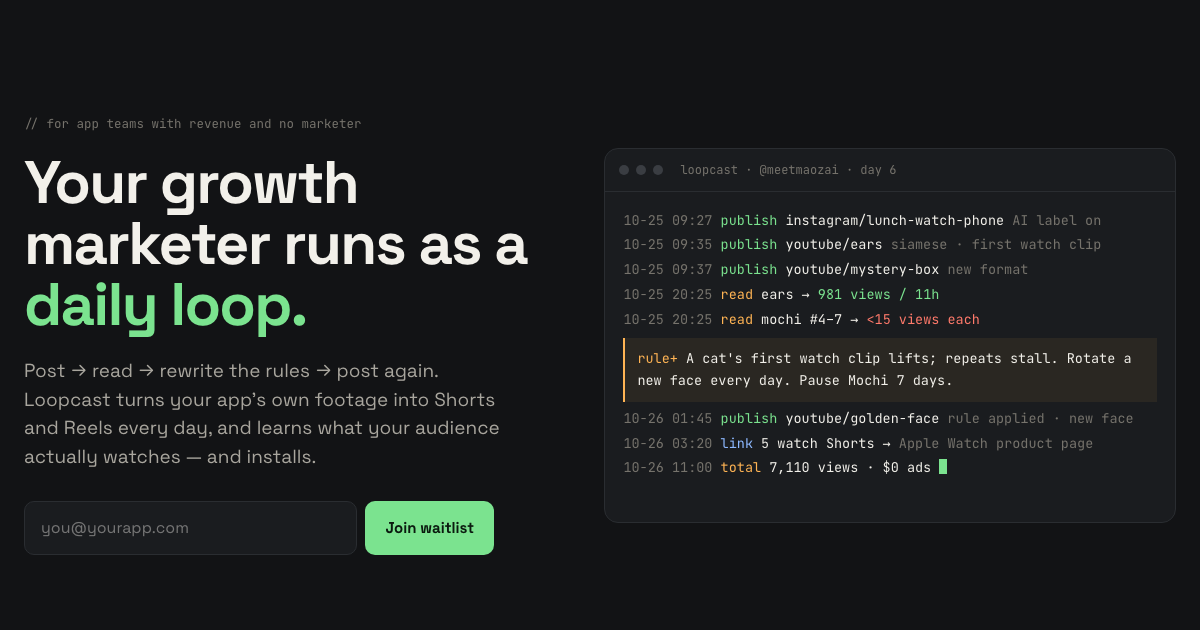
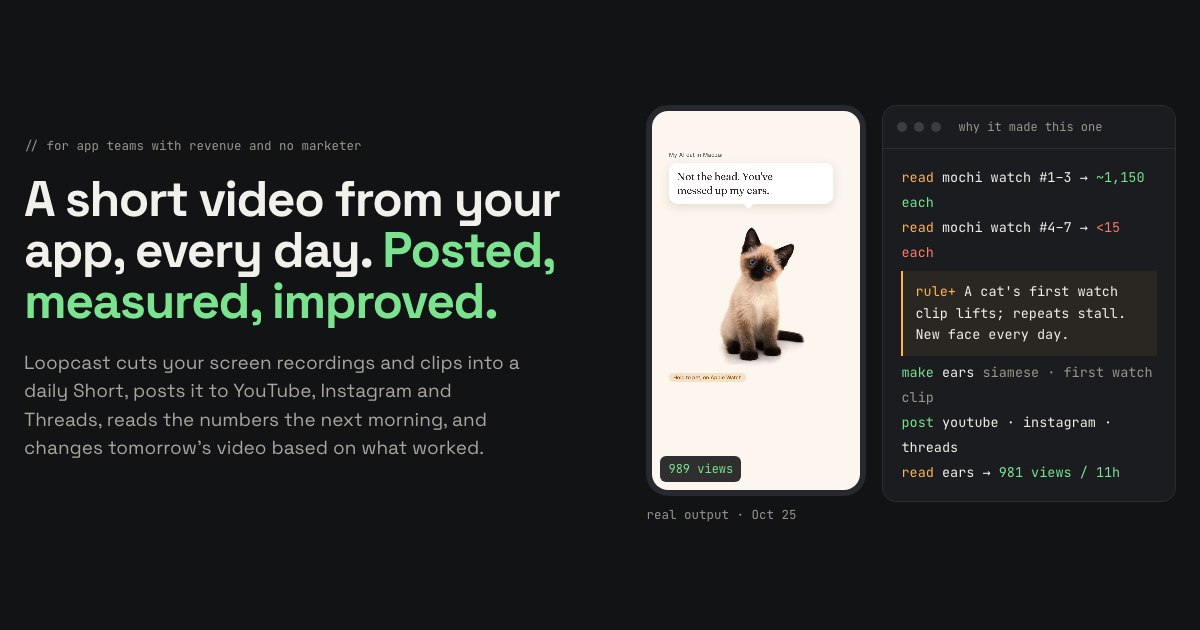
feat: product-first home, concrete plan quotas, planned features marked
Hero leads with the daily video and a real output; pricing cards state
apps, platforms, videos, posts and remakes, mark attribution as planned
and link to the pilot form; dated stats; brighter secondary text.

diff --git a/index.html b/index.html
@@ -4,19 +4,19 @@
 <meta charset="utf-8">
 <meta name="viewport" content="width=device-width, initial-scale=1">
 <title>Loopcast — AI marketer that runs your app's social accounts</title>
-<meta name="description" content="An AI agent for app teams with no marketer: it turns your app's footage into daily Shorts and Reels, posts via official APIs and learns what drives installs.">
+<meta name="description" content="A short video from your app every day: Loopcast cuts your footage into Shorts and Reels, posts them, reads the numbers and improves the next one.">
 <link rel="canonical" href="https://loopcast.dev/">
 <meta property="og:type" content="website">
 <meta property="og:site_name" content="Loopcast">
 <meta property="og:url" content="https://loopcast.dev/">
 <meta property="og:title" content="Loopcast — AI marketer that runs your app's social accounts">
-<meta property="og:description" content="Post, read the numbers, rewrite the rules, post again. Case study: Maozai, 7,110 views in 6 days with $0 on ads.">
+<meta property="og:description" content="A short video from your app every day, posted, measured and improved. Free two-week pilots for app teams.">
 <meta property="og:image" content="https://loopcast.dev/og.png">
 <meta property="og:image:width" content="1200">
 <meta property="og:image:height" content="630">
 <meta name="twitter:card" content="summary_large_image">
 <meta name="twitter:title" content="Loopcast — AI marketer that runs your app's social accounts">
-<meta name="twitter:description" content="An AI agent for app teams with no marketer: it turns your app's footage into daily Shorts and Reels, posts via official APIs and learns what drives installs.">
+<meta name="twitter:description" content="A short video from your app every day: Loopcast cuts your footage into Shorts and Reels, posts them, reads the numbers and improves the next one.">
 <meta name="twitter:image" content="https://loopcast.dev/og.png">
 <link rel="icon" href="/favicon.svg" type="image/svg+xml">
 <link rel="apple-touch-icon" href="/apple-touch-icon.png">
@@ -26,7 +26,7 @@
 <link rel="preconnect" href="https://fonts.gstatic.com" crossorigin>
 <link href="https://fonts.googleapis.com/css2?family=Space+Grotesk:wght@400;500;700&family=JetBrains+Mono:wght@400;600&display=swap" rel="stylesheet">
 <!-- ld:start (generated) -->
-<script type="application/ld+json">{"@context": "https://schema.org", "@graph": [{"@type": "Organization", "@id": "https://loopcast.dev/#org", "name": "Loopcast", "url": "https://loopcast.dev/", "logo": "https://loopcast.dev/apple-touch-icon.png"}, {"@type": "WebSite", "@id": "https://loopcast.dev/#website", "name": "Loopcast", "url": "https://loopcast.dev/", "publisher": {"@id": "https://loopcast.dev/#org"}}, {"@type": "Service", "@id": "https://loopcast.dev/#service", "name": "Loopcast", "serviceType": "Social media marketing for mobile apps", "description": "An AI agent that runs a small app team's social accounts as a daily loop: it makes short videos from the app's own footage, posts them through official platform APIs, reads the numbers the next morning, and rewrites its own per-account rules.", "provider": {"@id": "https://loopcast.dev/#org"}, "url": "https://loopcast.dev/", "audience": {"@type": "BusinessAudience", "audienceType": "App teams with revenue and no marketer"}}, {"@type": "FAQPage", "@id": "https://loopcast.dev/#faq", "mainEntity": [{"@type": "Question", "name": "What is Loopcast?", "acceptedAnswer": {"@type": "Answer", "text": "Loopcast is an AI agent that runs a small app team's social media accounts as a daily loop. Every day it makes short videos from the app's own footage, posts them to YouTube Shorts, Instagram Reels and Threads, reads the numbers the next morning, and rewrites its own rules for that account based on what worked. It is built first for app teams that already have revenue but no marketer. Loopcast is a working name; it is not related to the podcast product at loopcast.ai or the audio app at loopcast.app."}}, {"@type": "Question", "name": "How is Loopcast different from a scheduler like Buffer or Later?", "acceptedAnswer": {"@type": "Answer", "text": "A scheduler posts content you bring and stops there. Loopcast makes the content from your app's footage, posts it, follows each post to your App Store page and downloads, and changes what it does tomorrow based on the result. Each account gets its own rules in plain words, with the evidence and date behind every rule, which you can read, edit or veto."}}, {"@type": "Question", "name": "What results has Loopcast had so far?", "acceptedAnswer": {"@type": "Answer", "text": "One case so far: Maozai, a solo developer's iPhone and Apple Watch virtual pet app, on brand-new accounts from October 20 to 26, 2026. The agent published about 60 posts and reached 7,110 views across YouTube, Instagram, X and Threads with $0 spent on ads. Four Shorts made 79% of the YouTube views. Those views turned into 14 first-time App Store downloads in the 30 days to October 24, so turning views into installs is not proven yet; that is what the pilots are for."}}, {"@type": "Question", "name": "Which platforms does Loopcast post to?", "acceptedAnswer": {"@type": "Answer", "text": "YouTube Shorts, Instagram Reels and Threads first, through their official publishing APIs. TikTok and X come next; TikTok's posting API requires an app review and X's API is paid."}}, {"@type": "Question", "name": "Does Loopcast need my passwords?", "acceptedAnswer": {"@type": "Answer", "text": "No. Every platform is connected through its official API or its own delegation, such as a YouTube channel manager role or Meta partner access. Loopcast never asks for a password and never logs in to your browser."}}, {"@type": "Question", "name": "What does Loopcast do on its own, and what needs my approval?", "acceptedAnswer": {"@type": "Answer", "text": "It makes videos from footage you have shared, publishes routine posts, reads the numbers, writes rules and sends a weekly report on its own. Replies and comments in your voice, direct messages, any ad spend and the first post in a new format wait for your yes."}}, {"@type": "Question", "name": "Is the content AI-generated, and is it labelled?", "acceptedAnswer": {"@type": "Answer", "text": "The videos are cut from your real app footage and screen recordings; Loopcast writes the captions. Anything AI-generated is labelled with each platform's AI disclosure setting, and music is original or cleared for commercial use, never a platform's licensed library."}}, {"@type": "Question", "name": "How much does Loopcast cost?", "acceptedAnswer": {"@type": "Answer", "text": "The first pilots are free: two weeks, two platforms, a daily log and a report at the end. Planned pricing is $49 a month for Starter (one app, two platforms, approve each post), $299 a month for Main (three to four platforms on autopilot, daily videos, daily rule updates, attribution to downloads and revenue), and $799 a month and up for Growth (several apps, creator collaborations, App Store work). Prices may change before launch."}}, {"@type": "Question", "name": "Is Loopcast available now?", "acceptedAnswer": {"@type": "Answer", "text": "Not generally yet. Five free pilots are open for app teams with revenue and no marketer; join the waitlist on loopcast.dev and the developer behind Maozai replies within a few days."}}]}]}</script>
+<script type="application/ld+json">{"@context": "https://schema.org", "@graph": [{"@type": "Organization", "@id": "https://loopcast.dev/#org", "name": "Loopcast", "url": "https://loopcast.dev/", "logo": "https://loopcast.dev/apple-touch-icon.png"}, {"@type": "WebSite", "@id": "https://loopcast.dev/#website", "name": "Loopcast", "url": "https://loopcast.dev/", "publisher": {"@id": "https://loopcast.dev/#org"}}, {"@type": "Service", "@id": "https://loopcast.dev/#service", "name": "Loopcast", "serviceType": "Social media marketing for mobile apps", "description": "An AI agent that turns a small app team's own footage into a short video every day, posts it to YouTube Shorts, Instagram Reels and Threads, reads the numbers the next morning, and changes the next video based on what worked.", "provider": {"@id": "https://loopcast.dev/#org"}, "url": "https://loopcast.dev/", "audience": {"@type": "BusinessAudience", "audienceType": "App teams with revenue and no marketer"}}, {"@type": "FAQPage", "@id": "https://loopcast.dev/#faq", "mainEntity": [{"@type": "Question", "name": "What is Loopcast?", "acceptedAnswer": {"@type": "Answer", "text": "Loopcast is an AI agent that runs a small app team's social media accounts as a daily loop. Every day it makes short videos from the app's own footage, posts them to YouTube Shorts, Instagram Reels and Threads, reads the numbers the next morning, and rewrites its own rules for that account based on what worked. It is built first for app teams that already have revenue but no marketer. Loopcast is a working name; it is not related to the podcast product at loopcast.ai or the audio app at loopcast.app."}}, {"@type": "Question", "name": "How is Loopcast different from a scheduler like Buffer or Later?", "acceptedAnswer": {"@type": "Answer", "text": "A scheduler posts content you bring and stops there. Loopcast makes the content from your app's footage, posts it, reads every post's numbers the next morning, and changes what it does tomorrow based on the result. Each account gets its own rules in plain words, with the evidence and date behind every rule, which you can read, edit or veto. Tying each post to App Store downloads is planned and is being tested in the pilots."}}, {"@type": "Question", "name": "What results has Loopcast had so far?", "acceptedAnswer": {"@type": "Answer", "text": "One case so far: Maozai, a solo developer's iPhone and Apple Watch virtual pet app, on brand-new accounts. From October 20 to 26, 2026 the agent made and published about 60 posts, reached 7,110 views across YouTube, Instagram, X and Threads with $0 spent on ads, and rewrote its rules four times from the data. Installs are not proven: the App Store showed 14 first-time downloads in the 30 days to October 24, a window that starts before the run, and it cannot yet say which post brought which download."}}, {"@type": "Question", "name": "Which platforms does Loopcast post to?", "acceptedAnswer": {"@type": "Answer", "text": "YouTube Shorts, Instagram Reels and Threads first, through their official publishing APIs. TikTok and X come next; TikTok's posting API requires an app review and X's API is paid."}}, {"@type": "Question", "name": "Does Loopcast need my passwords?", "acceptedAnswer": {"@type": "Answer", "text": "No. Every platform is connected through its official API or its own delegation, such as a YouTube channel manager role or Meta partner access. Loopcast never asks for a password and never logs in to your browser."}}, {"@type": "Question", "name": "What does Loopcast do on its own, and what needs my approval?", "acceptedAnswer": {"@type": "Answer", "text": "It makes videos from footage you have shared, publishes routine posts, reads the numbers, writes rules and sends a weekly report on its own. Replies and comments in your voice, direct messages, any ad spend and the first post in a new format wait for your yes."}}, {"@type": "Question", "name": "Is the content AI-generated, and is it labelled?", "acceptedAnswer": {"@type": "Answer", "text": "The videos are cut from your real app footage and screen recordings; Loopcast writes the captions. Anything AI-generated is labelled with each platform's AI disclosure setting, and music is original or cleared for commercial use, never a platform's licensed library."}}, {"@type": "Question", "name": "How much does Loopcast cost?", "acceptedAnswer": {"@type": "Answer", "text": "Pilots are free. After that, planned pricing is: Starter, $49 a month, 1 app, 2 platforms, 12 original videos a month, and you approve every post. Main, $299 a month, 1 app, up to 4 platforms, 30 original videos a month (one a day), with only replies, messages, spend and new formats waiting for approval. Growth, $799 a month and up, up to 3 apps and 90 videos a month. Every plan posts each video to all connected platforms at no extra cost and remakes a rejected video up to two times. Extra videos are $5 each ($4 on Growth). Prices may change before launch."}}, {"@type": "Question", "name": "What do I get in the free pilot, and what do I need to bring?", "acceptedAnswer": {"@type": "Answer", "text": "Two weeks, 14 original videos (one a day) posted to two platforms you choose, a daily log you can read and a report at the end. You bring 5 to 10 screen recordings or clips of your app, your App Store link, and admin access through each platform's own delegation, such as a YouTube channel manager role. Afterwards you can choose a plan or stop; nothing is billed automatically."}}, {"@type": "Question", "name": "Is Loopcast available now?", "acceptedAnswer": {"@type": "Answer", "text": "Not generally yet. Five free two-week pilots are open for app teams with revenue and no marketer; apply on loopcast.dev and the developer behind Maozai replies within a few days."}}]}]}</script>
 <!-- ld:end -->
 <link rel="stylesheet" href="/style.css">
 </head>
@@ -34,90 +34,50 @@
 <div class="wrap">
 
 <nav>
- <a class="logo" href="#"><i></i>loopcast</a>
- <div class="links"><a href="#loop">How it works</a><a href="/maozai-case-study.html">Maozai case study</a><a href="#pricing">Pricing</a><a href="#join" class="cta">Waitlist →</a></div>
+ <a class="logo" href="/"><i></i>loopcast</a>
+ <div class="links"><a href="#loop">How it works</a><a href="#pricing">Pricing</a><a href="/maozai-case-study.html">Case study</a><a href="#join" class="cta">Apply for a pilot →</a></div>
 </nav>
 
 <header class="hero">
  <div>
   <div class="eyebrow">// for app teams with revenue and no marketer</div>
-  <h1>Your growth marketer runs as a <span>daily loop.</span></h1>
-  <p class="lede">Post → read → rewrite the rules → post again. Loopcast turns your app's own footage into Shorts and Reels every day, and learns what your audience actually watches — and installs.</p>
+  <h1>A short video from your app, every day. <span>Posted, measured, improved.</span></h1>
+  <p class="lede">Loopcast cuts your screen recordings and clips into a daily Short, posts it to YouTube, Instagram and Threads, reads the numbers the next morning, and changes tomorrow's video based on what worked.</p>
   <form class="quick" data-quick>
    <input type="email" name="email" placeholder="you@yourapp.com" aria-label="Work email" required>
-   <button type="submit">Join waitlist</button>
+   <button type="submit">Apply for a free pilot</button>
   </form>
-  <p class="fine">// first 5 app teams get a free two-week pilot · official APIs only · you approve replies, DMs and spend</p>
+  <p class="fine">// 5 free two-week pilots · 14 videos on 2 platforms · nothing billed afterwards unless you choose a plan</p>
  </div>
- <div class="term" aria-label="Example of Loopcast's daily log for the Maozai account">
-  <div class="bar"><i></i><i></i><i></i><span>loopcast · @meetmaozai · day 6</span></div>
-  <div class="log" id="log">
-   <div><span class="t">10-25 09:27</span> <span class="g">publish</span> <span class="w">instagram/lunch-watch-phone</span> <span class="t">AI label on</span></div>
-   <div><span class="t">10-25 09:35</span> <span class="g">publish</span> <span class="w">youtube/ears</span> <span class="t">siamese · first watch clip</span></div>
-   <div><span class="t">10-25 09:37</span> <span class="g">publish</span> <span class="w">youtube/mystery-box</span> <span class="t">new format</span></div>
-   <div><span class="t">10-25 20:25</span> <span class="a">read</span> <span class="w">ears</span> → <span class="g">981 views / 11h</span></div>
-   <div><span class="t">10-25 20:25</span> <span class="a">read</span> <span class="w">mochi #4–7</span> → <span class="r">&lt;15 views each</span></div>
-   <div class="rulebox"><span class="a">rule+</span> <span class="w">A cat's first watch clip lifts; repeats stall. Rotate a new face every day. Pause Mochi 7 days.</span></div>
-   <div><span class="t">10-26 01:45</span> <span class="g">publish</span> <span class="w">youtube/golden-face</span> <span class="t">rule applied · new face</span></div>
-   <div><span class="t">10-26 03:20</span> <span class="b">link</span> <span class="w">5 watch Shorts</span> → <span class="t">Apple Watch product page</span></div>
-   <div><span class="t">10-26 11:00</span> <span class="a">total</span> <span class="w">7,110 views · $0 ads</span> <span class="cursor"></span></div>
+ <div class="hero-proof">
+  <div>
+   <div class="phone"><video src="assets/ears.mp4" poster="assets/ears-cover.jpg" autoplay muted loop playsinline aria-label="Example Short made for Maozai: a Siamese kitten reacts to being petted on Apple Watch"></video><span class="views">989 views</span></div>
+   <p class="proofcap">real output · Oct 25</p>
+  </div>
+  <div class="term" aria-label="Why the agent made this video: an excerpt of its log">
+   <div class="bar"><i></i><i></i><i></i><span>why it made this one</span></div>
+   <div class="log" id="log">
+    <div><span class="a">read</span> <span class="w">mochi watch #1–3</span> → <span class="g">~1,150 each</span></div>
+    <div><span class="a">read</span> <span class="w">mochi watch #4–7</span> → <span class="r">&lt;15 each</span></div>
+    <div class="rulebox"><span class="a">rule+</span> <span class="w">A cat's first watch clip lifts; repeats stall. New face every day.</span></div>
+    <div><span class="g">make</span> <span class="w">ears</span> <span class="t">siamese · first watch clip</span></div>
+    <div><span class="g">post</span> <span class="w">youtube · instagram · threads</span></div>
+    <div><span class="a">read</span> <span class="w">ears</span> → <span class="g">981 views / 11h</span> <span class="cursor"></span></div>
+   </div>
   </div>
  </div>
 </header>
 
 <section class="block" id="loop">
- <div class="label">// how it works</div>
- <h2>Six steps, every day. Most tools stop at step three.</h2>
- <p class="sub">A scheduler waits for you to bring the content. Loopcast makes it, ships it, and follows each post all the way to your store page — then changes what it does tomorrow.</p>
- <div class="loop">
-  <div class="step"><div class="n">01 plan <span class="state ok">proven on Maozai</span></div><h3>A content matrix</h3><p>Formats × the stage a viewer is in: first seeing you, starting to trust you, ready to install. Each post is tagged so the right numbers judge it.</p></div>
-  <div class="step"><div class="n">02 make <span class="state ok">proven on Maozai</span></div><h3>From your own footage</h3><p>Screen recordings, store screenshots, clips you already have. Original music, AI disclosure on, and two or three openings or covers to test against each other.</p></div>
-  <div class="step"><div class="n">03 post <span class="state wip">moving to official APIs</span></div><h3>To your accounts</h3><p>YouTube, Instagram and Threads first; TikTok and X next. The account is checked before every post.</p></div>
-  <div class="step"><div class="n">04 land <span class="state wip">building</span></div><h3>On the right store page</h3><p>Each kind of clip links to the App Store custom product page that matches it, with a tracking tag per post and per clip.</p></div>
-  <div class="step"><div class="n">05 read <span class="state wip">building</span></div><h3>Every morning</h3><p>Views per post, store page views and downloads per link, all tied back to the clip and version that earned them.</p></div>
-  <div class="step"><div class="n">06 learn <span class="state ok">proven on Maozai</span></div><h3>Rules in plain words</h3><p>Keep, rewrite, retest. Each rule carries its evidence and date, and you can read, edit or veto it. Winners can go to a small ad test — only with your yes.</p></div>
+ <div class="label">// what you get</div>
+ <h2>One loop a day: make, post, read, adjust.</h2>
+ <p class="sub">A scheduler waits for you to bring the content. Loopcast makes it from what you already have, and changes what it does tomorrow because of what happened today.</p>
+ <div class="gets">
+  <div class="get"><span class="tag live">in the pilot</span><h3>A new video every day</h3><p>6–15 second vertical videos cut from your screen recordings, store screenshots and clips. Captions per platform, original music, AI disclosure on. Reject one and it's remade.</p></div>
+  <div class="get"><span class="tag live">in the pilot</span><h3>Posted where you grow</h3><p>Each video goes to every platform you connect: YouTube Shorts, Instagram Reels, Threads. One video on three platforms counts as one video. TikTok and X come later.</p></div>
+  <div class="get"><span class="tag live">in the pilot</span><h3>Rules you can read</h3><p>Every morning it reads each post's views and writes what it learned as a rule in plain words, with the evidence and date. You can edit or veto any rule.</p></div>
  </div>
- <div class="legend"><span><span class="g">●</span> ran on Maozai</span><span><span class="a">●</span> what the pilots add</span></div>
-</section>
-
-<section class="block" id="maozai">
- <div class="label">// case study · Maozai, a solo-dev iPhone + Apple Watch app</div>
- <h2>Six days on brand-new accounts. Here is the whole log, including the weak part.</h2>
- <p class="sub">The agent ran Maozai's YouTube, Instagram, X and Threads from Oct 20 to Oct 26: made every video from the app's own clips, posted it, read the numbers, and rewrote its rules.</p>
- <div class="stats">
-  <div class="stat"><div class="v mono">7,110</div><div class="k">views across platforms</div></div>
-  <div class="stat"><div class="v mono">$0</div><div class="k">spent on ads</div></div>
-  <div class="stat"><div class="v mono">~60</div><div class="k">posts: 21 Shorts, 20 Reels, X, Threads</div></div>
-  <div class="stat warn"><div class="v mono">14</div><div class="k">first-time downloads in 30 days</div></div>
- </div>
- <div class="case">
-  <div class="panel">
-   <h4><span>youtube views per Short</span><span>Oct 20–26</span></h4>
-   <div class="chart" id="chart"></div>
-   <p class="note">Four Shorts made 79% of YouTube's views: Mochi's first three Apple Watch clips and the Siamese's first. Mochi's 4th to 7th got under 15 each. That gap is where the "new face every day" rule came from.</p>
-  </div>
-  <div class="panel">
-   <h4><span>the four that lifted</span><span>6–10 s each</span></h4>
-   <div class="vids">
-    <div class="vid"><video src="assets/pet.mp4" poster="assets/pet-cover.jpg" muted loop playsinline preload="none"></video><span>1,188</span></div>
-    <div class="vid"><video src="assets/crown.mp4" poster="assets/crown-cover.jpg" muted loop playsinline preload="none"></video><span>1,157</span></div>
-    <div class="vid"><video src="assets/chin.mp4" poster="assets/chin-cover.jpg" muted loop playsinline preload="none"></video><span>1,139</span></div>
-    <div class="vid"><video src="assets/ears.mp4" poster="assets/ears-cover.jpg" muted loop playsinline preload="none"></video><span>989</span></div>
-   </div>
-  </div>
- </div>
- <div class="rules">
-  <div class="rule"><div class="d">rule · oct 25</div><div class="txt">A cat's first Apple Watch clip lifts; the same cat again doesn't. Put a new face on camera every day.</div><div class="ev">Mochi #1–3: 1,188 / 1,157 / 1,139 · #4–7: under 15 · Siamese #1: 989</div></div>
-  <div class="rule"><div class="d">rule · oct 24</div><div class="txt">Nothing in the frame asks people to download. The store link lives in the description.</div><div class="ev">both Shorts with "App Store" in frame: 2 views each (n = 2)</div></div>
-  <div class="rule"><div class="d">rule · oct 21</div><div class="txt">On X, standalone posts go nowhere. Reply under other people's threads instead.</div><div class="ev">standalone posts: 1–10 views each</div></div>
-  <div class="rule"><div class="d">rule · oct 22</div><div class="txt">Check the signed-in account before every post.</div><div class="ev">one post went out on the founder's personal account</div></div>
- </div>
- <div class="honest">
-  <b>// not proven yet</b>
-  <p>Views did not turn into many installs: 14 first-time downloads and 70 store page views in the 30 days to Oct 24, and App Store Connect still says "not enough data" per campaign. Steps 04 and 05 above — matching store pages and per-clip attribution — are what the pilots are for.</p>
- 
-  <p><a href="/maozai-case-study.html" style="color:var(--green)">Read the full case study: every Short, every rule, and what did not work →</a></p>
- </div>
+ <div class="keyline"><span class="l">in the pilot: making, posting, daily numbers, rules, weekly report</span><span class="p">planned: matching each video to an App Store product page, and attributing downloads to it</span></div>
 </section>
 
 <section class="block" id="control">
@@ -127,34 +87,56 @@
   <div class="panel auto"><h4><span>runs on its own</span></h4><ul><li>Making videos from footage you've shared</li><li>Routine posts on the platforms you connected</li><li>Reading the numbers and writing rules</li><li>Your weekly report</li></ul></div>
   <div class="panel yes"><h4><span>waits for your yes</span></h4><ul><li>Replies and comments in your voice</li><li>Direct messages</li><li>Any ad spend, at any amount</li><li>A new format's first post</li></ul></div>
  </div>
- <p class="never"><b>never</b>Your passwords. Every platform is connected through its official API or its own delegation (channel manager, Meta partner access). AI-made content is always labelled.</p>
+ <p class="never"><b>never</b>Your passwords. Every platform is connected through its own delegation (YouTube channel manager, Meta partner access). You can pause it any day.</p>
 </section>
 
 <section class="block" id="pricing">
- <div class="label">// planned pricing · pilots are free</div>
+ <div class="label">// pricing · start with a free pilot</div>
  <h2>Priced against a part-time marketer, not a scheduler.</h2>
- <div class="plans">
-  <div class="plan"><div class="nm">starter</div><div class="pr">$49<small>/mo</small></div><div class="for">Try it with a hand on the wheel.</div><ul><li>1 app, 2 platforms</li><li>You approve each post</li><li>Weekly report</li></ul></div>
-  <div class="plan main"><div class="nm">main</div><div class="pr">$299<small>/mo</small></div><div class="for">The daily loop, on autopilot.</div><ul><li>3–4 platforms</li><li>New videos every day</li><li>Rules rewritten daily</li><li>Attribution to downloads and revenue per channel</li></ul></div>
-  <div class="plan"><div class="nm">growth</div><div class="pr">$799<small>+/mo</small></div><div class="for">When it's working and you want more.</div><ul><li>Several apps</li><li>Creator collaborations</li><li>App Store work: custom product pages, featuring nominations</li><li>Ad tests for proven clips</li></ul></div>
+ <div class="pilot">
+  <div><div class="k">// free two-week pilot</div><h3>14 original videos on 2 platforms</h3><p>One video a day, posted to both, a daily log you can read and a report at the end. 5 places.</p></div>
+  <div><div class="k">// you bring</div><ul><li>5–10 screen recordings or clips</li><li>Your App Store link</li><li>Admin access through each platform's own delegation</li></ul></div>
+  <div><div class="k">// afterwards</div><ul><li>Choose Main or Starter</li><li>Or stop: nothing is billed automatically</li></ul></div>
  </div>
- <p class="fine" style="margin-top:16px">// video generation beyond the plan is sold as credits · prices may change before launch</p>
+ <div class="plans">
+  <div class="plan"><div class="nm">starter</div><div class="pr">$49<small>/mo</small></div><div class="for">A hand on the wheel.</div><div class="q">1 app · 2 platforms · 12 videos/mo</div><ul><li>12 original videos a month (3 a week)</li><li>Each posted to both platforms, up to 24 posts</li><li>You approve every post</li><li>Each video remade up to 2 times</li><li>Weekly report</li></ul><div class="cta-btn"><a href="#join">Apply for a free pilot</a></div></div>
+  <div class="plan main"><div class="nm">main</div><div class="pr">$299<small>/mo</small></div><div class="for">The daily loop, on autopilot.</div><div class="q">1 app · up to 4 platforms · 30 videos/mo</div><ul><li>30 original videos a month (1 a day)</li><li>Each posted to every connected platform, up to 120 posts</li><li>You approve only replies, DMs, spend and new formats</li><li>Numbers read and rules updated daily</li><li>Each video remade up to 2 times</li><li>Weekly report</li><li class="planned">Planned: App Store product page matching and download attribution</li></ul><div class="cta-btn"><a href="#join">Apply for a free pilot</a></div></div>
+  <div class="plan"><div class="nm">growth</div><div class="pr">$799<small>+/mo</small></div><div class="for">Several apps, more volume.</div><div class="q">up to 3 apps · 4 platforms each · 90 videos/mo</div><ul><li>90 original videos a month across your apps</li><li>Everything in Main</li><li class="planned">Planned: creator collaborations</li><li class="planned">Planned: App Store custom product pages and featuring nominations</li></ul><div class="cta-btn"><a href="#join">Apply for a free pilot</a></div></div>
+ </div>
+ <p class="extra">Extra videos: $5 each on Starter and Main, $4 on Growth. Posting the same video to another platform is free. Prices may change before launch; pilots are free either way.</p>
+</section>
+
+<section class="block" id="maozai">
+ <div class="label">// proof so far · one app, one week</div>
+ <h2>What it did for Maozai, a solo developer's iPhone + Apple Watch app.</h2>
+ <div class="stats">
+  <div class="stat"><div class="v mono">~60</div><div class="k">posts made and published</div><div class="when">Oct 20–26 · 6 days</div></div>
+  <div class="stat"><div class="v mono">7,110</div><div class="k">views on new accounts</div><div class="when">Oct 20–26 · 6 days</div></div>
+  <div class="stat"><div class="v mono">4</div><div class="k">rules rewritten from the data</div><div class="when">Oct 21–25</div></div>
+  <div class="stat"><div class="v mono">$0</div><div class="k">spent on ads</div><div class="when">Oct 20–26</div></div>
+ </div>
+ <div class="honest">
+  <b>// not proven yet</b>
+  <p>Installs. The App Store showed 14 first-time downloads in the 30 days to Oct 24, a window that starts before this run, and it can't yet say which came from which post. Attributing downloads is what the pilots test next.</p>
+  <p><a href="/maozai-case-study.html" style="color:var(--green)">Full case study: every Short, every rule, what did not work →</a></p>
+ </div>
 </section>
 
 <section class="block" id="faq">
  <div class="label">// questions</div>
- <h2>Before you join</h2>
+ <h2>Before you apply</h2>
  <div class="faq">
 <!-- faq:start (generated by tools/build_site.py from content/site.json) -->
   <details open><summary>What is Loopcast?</summary><p>Loopcast is an AI agent that runs a small app team&#x27;s social media accounts as a daily loop. Every day it makes short videos from the app&#x27;s own footage, posts them to YouTube Shorts, Instagram Reels and Threads, reads the numbers the next morning, and rewrites its own rules for that account based on what worked. It is built first for app teams that already have revenue but no marketer. Loopcast is a working name; it is not related to the podcast product at loopcast.ai or the audio app at loopcast.app.</p></details>
-  <details><summary>How is Loopcast different from a scheduler like Buffer or Later?</summary><p>A scheduler posts content you bring and stops there. Loopcast makes the content from your app&#x27;s footage, posts it, follows each post to your App Store page and downloads, and changes what it does tomorrow based on the result. Each account gets its own rules in plain words, with the evidence and date behind every rule, which you can read, edit or veto.</p></details>
-  <details><summary>What results has Loopcast had so far?</summary><p>One case so far: Maozai, a solo developer&#x27;s iPhone and Apple Watch virtual pet app, on brand-new accounts from October 20 to 26, 2026. The agent published about 60 posts and reached 7,110 views across YouTube, Instagram, X and Threads with $0 spent on ads. Four Shorts made 79% of the YouTube views. Those views turned into 14 first-time App Store downloads in the 30 days to October 24, so turning views into installs is not proven yet; that is what the pilots are for.</p></details>
+  <details><summary>How is Loopcast different from a scheduler like Buffer or Later?</summary><p>A scheduler posts content you bring and stops there. Loopcast makes the content from your app&#x27;s footage, posts it, reads every post&#x27;s numbers the next morning, and changes what it does tomorrow based on the result. Each account gets its own rules in plain words, with the evidence and date behind every rule, which you can read, edit or veto. Tying each post to App Store downloads is planned and is being tested in the pilots.</p></details>
+  <details><summary>What results has Loopcast had so far?</summary><p>One case so far: Maozai, a solo developer&#x27;s iPhone and Apple Watch virtual pet app, on brand-new accounts. From October 20 to 26, 2026 the agent made and published about 60 posts, reached 7,110 views across YouTube, Instagram, X and Threads with $0 spent on ads, and rewrote its rules four times from the data. Installs are not proven: the App Store showed 14 first-time downloads in the 30 days to October 24, a window that starts before the run, and it cannot yet say which post brought which download.</p></details>
   <details><summary>Which platforms does Loopcast post to?</summary><p>YouTube Shorts, Instagram Reels and Threads first, through their official publishing APIs. TikTok and X come next; TikTok&#x27;s posting API requires an app review and X&#x27;s API is paid.</p></details>
   <details><summary>Does Loopcast need my passwords?</summary><p>No. Every platform is connected through its official API or its own delegation, such as a YouTube channel manager role or Meta partner access. Loopcast never asks for a password and never logs in to your browser.</p></details>
   <details><summary>What does Loopcast do on its own, and what needs my approval?</summary><p>It makes videos from footage you have shared, publishes routine posts, reads the numbers, writes rules and sends a weekly report on its own. Replies and comments in your voice, direct messages, any ad spend and the first post in a new format wait for your yes.</p></details>
   <details><summary>Is the content AI-generated, and is it labelled?</summary><p>The videos are cut from your real app footage and screen recordings; Loopcast writes the captions. Anything AI-generated is labelled with each platform&#x27;s AI disclosure setting, and music is original or cleared for commercial use, never a platform&#x27;s licensed library.</p></details>
-  <details><summary>How much does Loopcast cost?</summary><p>The first pilots are free: two weeks, two platforms, a daily log and a report at the end. Planned pricing is $49 a month for Starter (one app, two platforms, approve each post), $299 a month for Main (three to four platforms on autopilot, daily videos, daily rule updates, attribution to downloads and revenue), and $799 a month and up for Growth (several apps, creator collaborations, App Store work). Prices may change before launch.</p></details>
-  <details><summary>Is Loopcast available now?</summary><p>Not generally yet. Five free pilots are open for app teams with revenue and no marketer; join the waitlist on loopcast.dev and the developer behind Maozai replies within a few days.</p></details>
+  <details><summary>How much does Loopcast cost?</summary><p>Pilots are free. After that, planned pricing is: Starter, $49 a month, 1 app, 2 platforms, 12 original videos a month, and you approve every post. Main, $299 a month, 1 app, up to 4 platforms, 30 original videos a month (one a day), with only replies, messages, spend and new formats waiting for approval. Growth, $799 a month and up, up to 3 apps and 90 videos a month. Every plan posts each video to all connected platforms at no extra cost and remakes a rejected video up to two times. Extra videos are $5 each ($4 on Growth). Prices may change before launch.</p></details>
+  <details><summary>What do I get in the free pilot, and what do I need to bring?</summary><p>Two weeks, 14 original videos (one a day) posted to two platforms you choose, a daily log you can read and a report at the end. You bring 5 to 10 screen recordings or clips of your app, your App Store link, and admin access through each platform&#x27;s own delegation, such as a YouTube channel manager role. Afterwards you can choose a plan or stop; nothing is billed automatically.</p></details>
+  <details><summary>Is Loopcast available now?</summary><p>Not generally yet. Five free two-week pilots are open for app teams with revenue and no marketer; apply on loopcast.dev and the developer behind Maozai replies within a few days.</p></details>
 <!-- faq:end -->
  </div>
 </section>
@@ -162,8 +144,8 @@
 <section class="block" id="join">
  <div class="join">
   <div>
-   <div class="label">// waitlist</div>
-   <h2>Five free pilots for app teams.</h2>
+   <div class="label">// apply for a free pilot</div>
+   <h2>Five free two-week pilots for app teams.</h2>
    <p class="sub">Tell us about your app. If it fits, you'll hear from Will, the solo developer behind Maozai, within a few days.</p>
   </div>
   <form class="form" id="waitlist" novalidate>
@@ -175,9 +157,9 @@
     <label>Who does marketing today?<select name="today"><option value="">Choose one</option><option>Nobody</option><option>Me, when I have time</option><option>A freelancer or agency</option><option>Someone in-house</option></select></label>
     <label class="hp" aria-hidden="true">Leave this empty<input type="text" name="website" tabindex="-1" autocomplete="off"></label>
     <div class="err" id="err" role="alert"></div>
-    <button type="submit">Join the waitlist</button>
+    <button type="submit">Apply for a free pilot</button>
    </div>
-   <div class="ok-msg" role="status">✓ you're on the list.<br><span class="t">// we'll write from a real inbox, not a sequence.</span></div>
+   <div class="ok-msg" role="status">✓ application received.<br><span class="t">// we'll write from a real inbox, not a sequence.</span></div>
   </form>
  </div>
 </section>
@@ -189,17 +171,6 @@
 // Submissions go to a Cloudflare Worker that stores them in KV (worker/ in this folder).
 const WAITLIST_ENDPOINT = "https://api.loopcast.dev/waitlist";
 
-const shorts = [
-  ["pet", 1188, 1], ["crown", 1157, 1], ["chin", 1139, 1], ["ears", 989, 1],
-  ["launch", 317], ["tail", 267], ["heart", 245], ["skip-dinner", 214], ["miss-you", 43],
-  ["wrist", 14], ["belly", 13], ["paw", 12], ["pet-till-grumpy", 8], ["back", 4],
-  ["toffee-chin", 3], ["lunch", 3], ["mochi-paw", 2], ["box-toffee", 2]
-];
-const max = shorts[0][1];
-document.getElementById("chart").innerHTML = shorts.map(([n, v, hit]) =>
-  `<div class="${hit ? "hit" : ""}"><span class="nm">${n}</span><span class="tr"><i style="width:${Math.max(v / max * 100, 0.6)}%"></i></span><span class="vv">${v.toLocaleString("en-US")}</span></div>`
-).join("");
-
 const reduce = matchMedia("(prefers-reduced-motion: reduce)").matches;
 
 // Reveal the hero log one line at a time.
@@ -207,14 +178,6 @@ if (!reduce) {
   const lines = [...document.querySelectorAll("#log > div")];
   lines.forEach((l) => l.classList.add("hide"));
   lines.forEach((l, i) => setTimeout(() => l.classList.remove("hide"), 350 + i * 420));
-}
-
-// Play the case-study clips only while they are on screen.
-if (!reduce && "IntersectionObserver" in window) {
-  const io = new IntersectionObserver((entries) => entries.forEach((e) => {
-    if (e.isIntersecting) e.target.play().catch(() => {}); else e.target.pause();
-  }), { threshold: 0.4 });
-  document.querySelectorAll(".vid video").forEach((v) => io.observe(v));
 }
 
 const isEmail = (s) => /^[^\s@]+@[^\s@]+\.[^\s@]+$/.test(s);

diff --git a/style.css b/style.css
@@ -1,4 +1,4 @@
-:root{--bg:#121315;--panel:#1A1C1F;--panel2:#202327;--line:#2A2D31;--ink:#F2F0EA;--body:#A9A69E;--soft:#76736C;--green:#7BE38F;--amber:#FFB454;--red:#FF7A6B;--blue:#8DB8FF}
+:root{--bg:#121315;--panel:#1A1C1F;--panel2:#202327;--line:#2A2D31;--ink:#F2F0EA;--body:#A9A69E;--soft:#9A968E;--green:#7BE38F;--amber:#FFB454;--red:#FF7A6B;--blue:#8DB8FF}
 *{box-sizing:border-box;margin:0;padding:0}
 html{scroll-behavior:smooth}
 @media(prefers-reduced-motion:reduce){html{scroll-behavior:auto}}
@@ -158,3 +158,46 @@ footer{border-top:1px solid var(--line);padding:28px 0 40px;color:var(--soft);fo
  section.block{padding:56px 0}
  .stat .v{font-size:30px}
 }
+
+/* v2: product-first home */
+.hero-proof{display:grid;grid-template-columns:220px 1fr;gap:16px;align-items:stretch;min-width:0}
+.phone{position:relative;border-radius:22px;overflow:hidden;background:#F7F3EE;aspect-ratio:9/16;border:6px solid #26292D}
+.phone video{width:100%;height:100%;object-fit:cover;display:block}
+.phone .views{position:absolute;left:8px;bottom:8px;background:rgba(18,19,21,.88);color:var(--green);font-family:"JetBrains Mono",monospace;font-size:12px;padding:4px 8px;border-radius:6px}
+.proofcap{font-family:"JetBrains Mono",monospace;font-size:12.5px;color:var(--soft);margin-top:10px}
+.hero-proof .term .log{min-height:0}
+.gets{display:grid;grid-template-columns:repeat(3,1fr);gap:16px;margin-top:36px}
+.get{background:var(--panel);border-radius:14px;padding:22px;display:flex;flex-direction:column;gap:8px}
+.get h3{font-size:20px}
+.get p{color:var(--body);font-size:15px}
+.tag{display:inline-block;font-family:"JetBrains Mono",monospace;font-size:11.5px;padding:2px 8px;border-radius:99px;width:max-content}
+.tag.live{color:var(--green);background:rgba(123,227,143,.1)}
+.tag.plan{color:var(--amber);background:rgba(255,180,84,.1)}
+.example{margin-top:16px}
+.pilot{margin-top:28px;background:var(--panel);border-radius:14px;padding:22px 24px;display:grid;grid-template-columns:1.2fr 1fr 1fr;gap:24px;outline:1px solid var(--green)}
+.pilot h3{font-size:20px;margin-bottom:6px}
+.pilot .k{font-family:"JetBrains Mono",monospace;font-size:12.5px;color:var(--green);margin-bottom:6px}
+.pilot p,.pilot li{color:var(--ink);font-size:15px}
+.pilot ul{list-style:none}
+.pilot li{padding:3px 0 3px 16px;position:relative}
+.pilot li::before{content:"›";position:absolute;left:0;color:var(--green)}
+.plan li.planned{color:var(--body)}
+.plan li.planned::before{content:"○";color:var(--amber)}
+.plan .cta-btn{margin-top:auto;padding-top:18px}
+.plan .cta-btn a{display:block;text-align:center;padding:12px 14px;border-radius:10px;font-weight:700;font-size:15px;text-decoration:none;background:var(--panel2);color:var(--ink)}
+.plan.main .cta-btn a{background:var(--green);color:#0B1A0F}
+.plan .q{font-family:"JetBrains Mono",monospace;font-size:12px;color:var(--soft);margin:-2px 0 8px}
+.keyline{display:flex;gap:18px;flex-wrap:wrap;margin-top:14px;font-size:14px;color:var(--body)}
+.keyline span::before{margin-right:6px;font-family:"JetBrains Mono",monospace}
+.keyline .l::before{content:"›";color:var(--green)}
+.keyline .p::before{content:"○";color:var(--amber)}
+.extra{margin-top:14px;color:var(--body);font-size:15px}
+.stat .when{font-family:"JetBrains Mono",monospace;font-size:12px;color:var(--soft);margin-top:6px}
+@media(max-width:960px){.gets{grid-template-columns:1fr}.pilot{grid-template-columns:1fr;gap:16px}}
+@media(max-width:760px){.hero-proof{grid-template-columns:150px 1fr}}
+@media(max-width:480px){.hero-proof{grid-template-columns:1fr}.phone{max-width:220px}}
+.hero h1{font-size:52px}
+@media(min-width:761px){.hero{grid-template-columns:1.05fr 1fr}}
+.hero-proof{align-items:start}
+.hero-proof .log>div{white-space:normal}
+@media(max-width:760px){.hero h1{font-size:36px}}

diff --git a/maozai-case-study.html b/maozai-case-study.html
@@ -57,13 +57,13 @@ table.t td:first-child{color:var(--ink)}
  <h1>An AI agent ran a new app's social accounts for six days. Here is everything it did.</h1>
  <p class="meta">Published Oct 26, 2026 · numbers as of Oct 26, 2026 · app: Maozai (iPhone + Apple Watch)</p>
 
- <p><strong>Short answer:</strong> on brand-new accounts and with $0 spent on ads, an AI agent published about 60 posts for Maozai between October 20 and 26, 2026 and reached 7,110 views across YouTube, Instagram, X and Threads. Four YouTube Shorts made 79% of the YouTube views. The agent wrote four new rules for itself from what happened. What it has not shown yet is installs: the App Store counted 14 first-time downloads in the 30 days to October 24.</p>
+ <p><strong>Short answer:</strong> on brand-new accounts and with $0 spent on ads, an AI agent published about 60 posts for Maozai between October 20 and 26, 2026 and reached 7,110 views across YouTube, Instagram, X and Threads. Four YouTube Shorts made 79% of the YouTube views. The agent wrote four new rules for itself from what happened. What it has not shown yet is installs: the App Store counted 14 first-time downloads in the 30 days to October 24, a window that starts before this run, and it cannot tell which post brought which download.</p>
 
  <div class="stats">
-  <div class="stat"><div class="v mono">7,110</div><div class="k">views across platforms</div></div>
-  <div class="stat"><div class="v mono">$0</div><div class="k">spent on ads</div></div>
-  <div class="stat"><div class="v mono">~60</div><div class="k">posts in six days</div></div>
-  <div class="stat warn"><div class="v mono">14</div><div class="k">first-time downloads in 30 days</div></div>
+  <div class="stat"><div class="v mono">~60</div><div class="k">posts made and published</div><div class="when">Oct 20–26 · 6 days</div></div>
+  <div class="stat"><div class="v mono">7,110</div><div class="k">views across platforms</div><div class="when">Oct 20–26 · 6 days</div></div>
+  <div class="stat"><div class="v mono">$0</div><div class="k">spent on ads</div><div class="when">Oct 20–26</div></div>
+  <div class="stat warn"><div class="v mono">14</div><div class="k">first-time downloads, not attributable to this run</div><div class="when">30 days to Oct 24</div></div>
  </div>
 
  <h2>The setup</h2>
